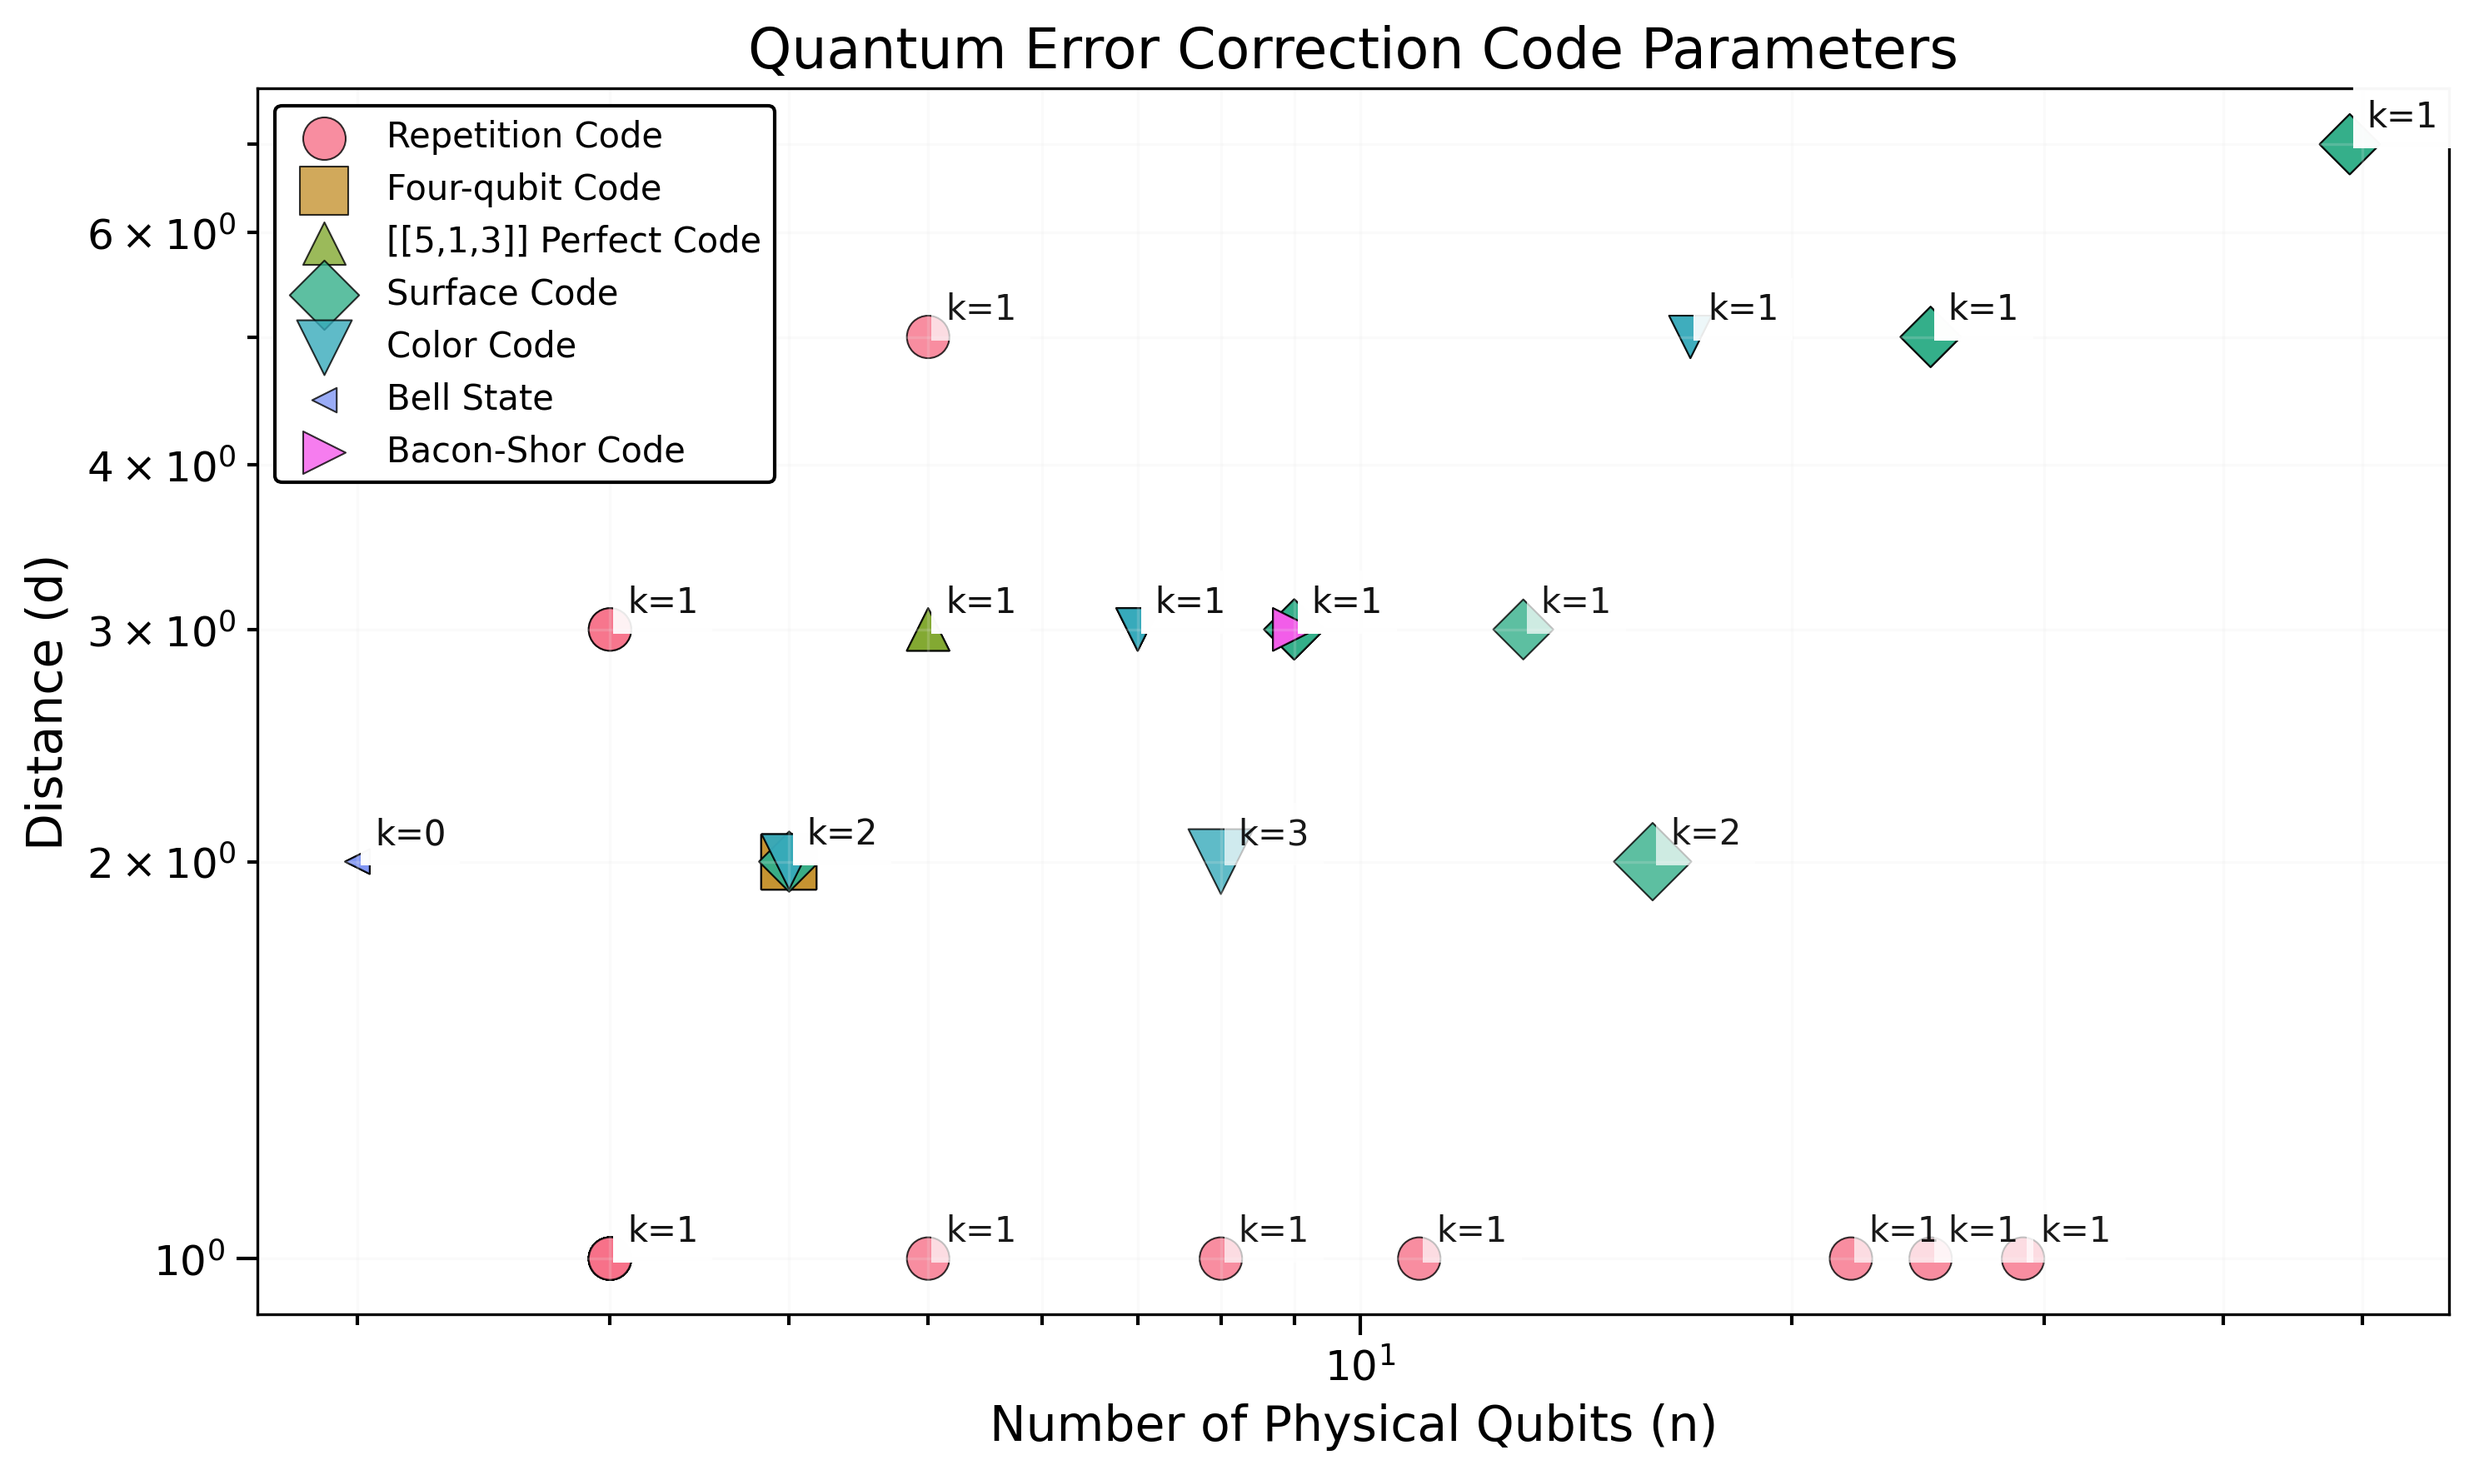
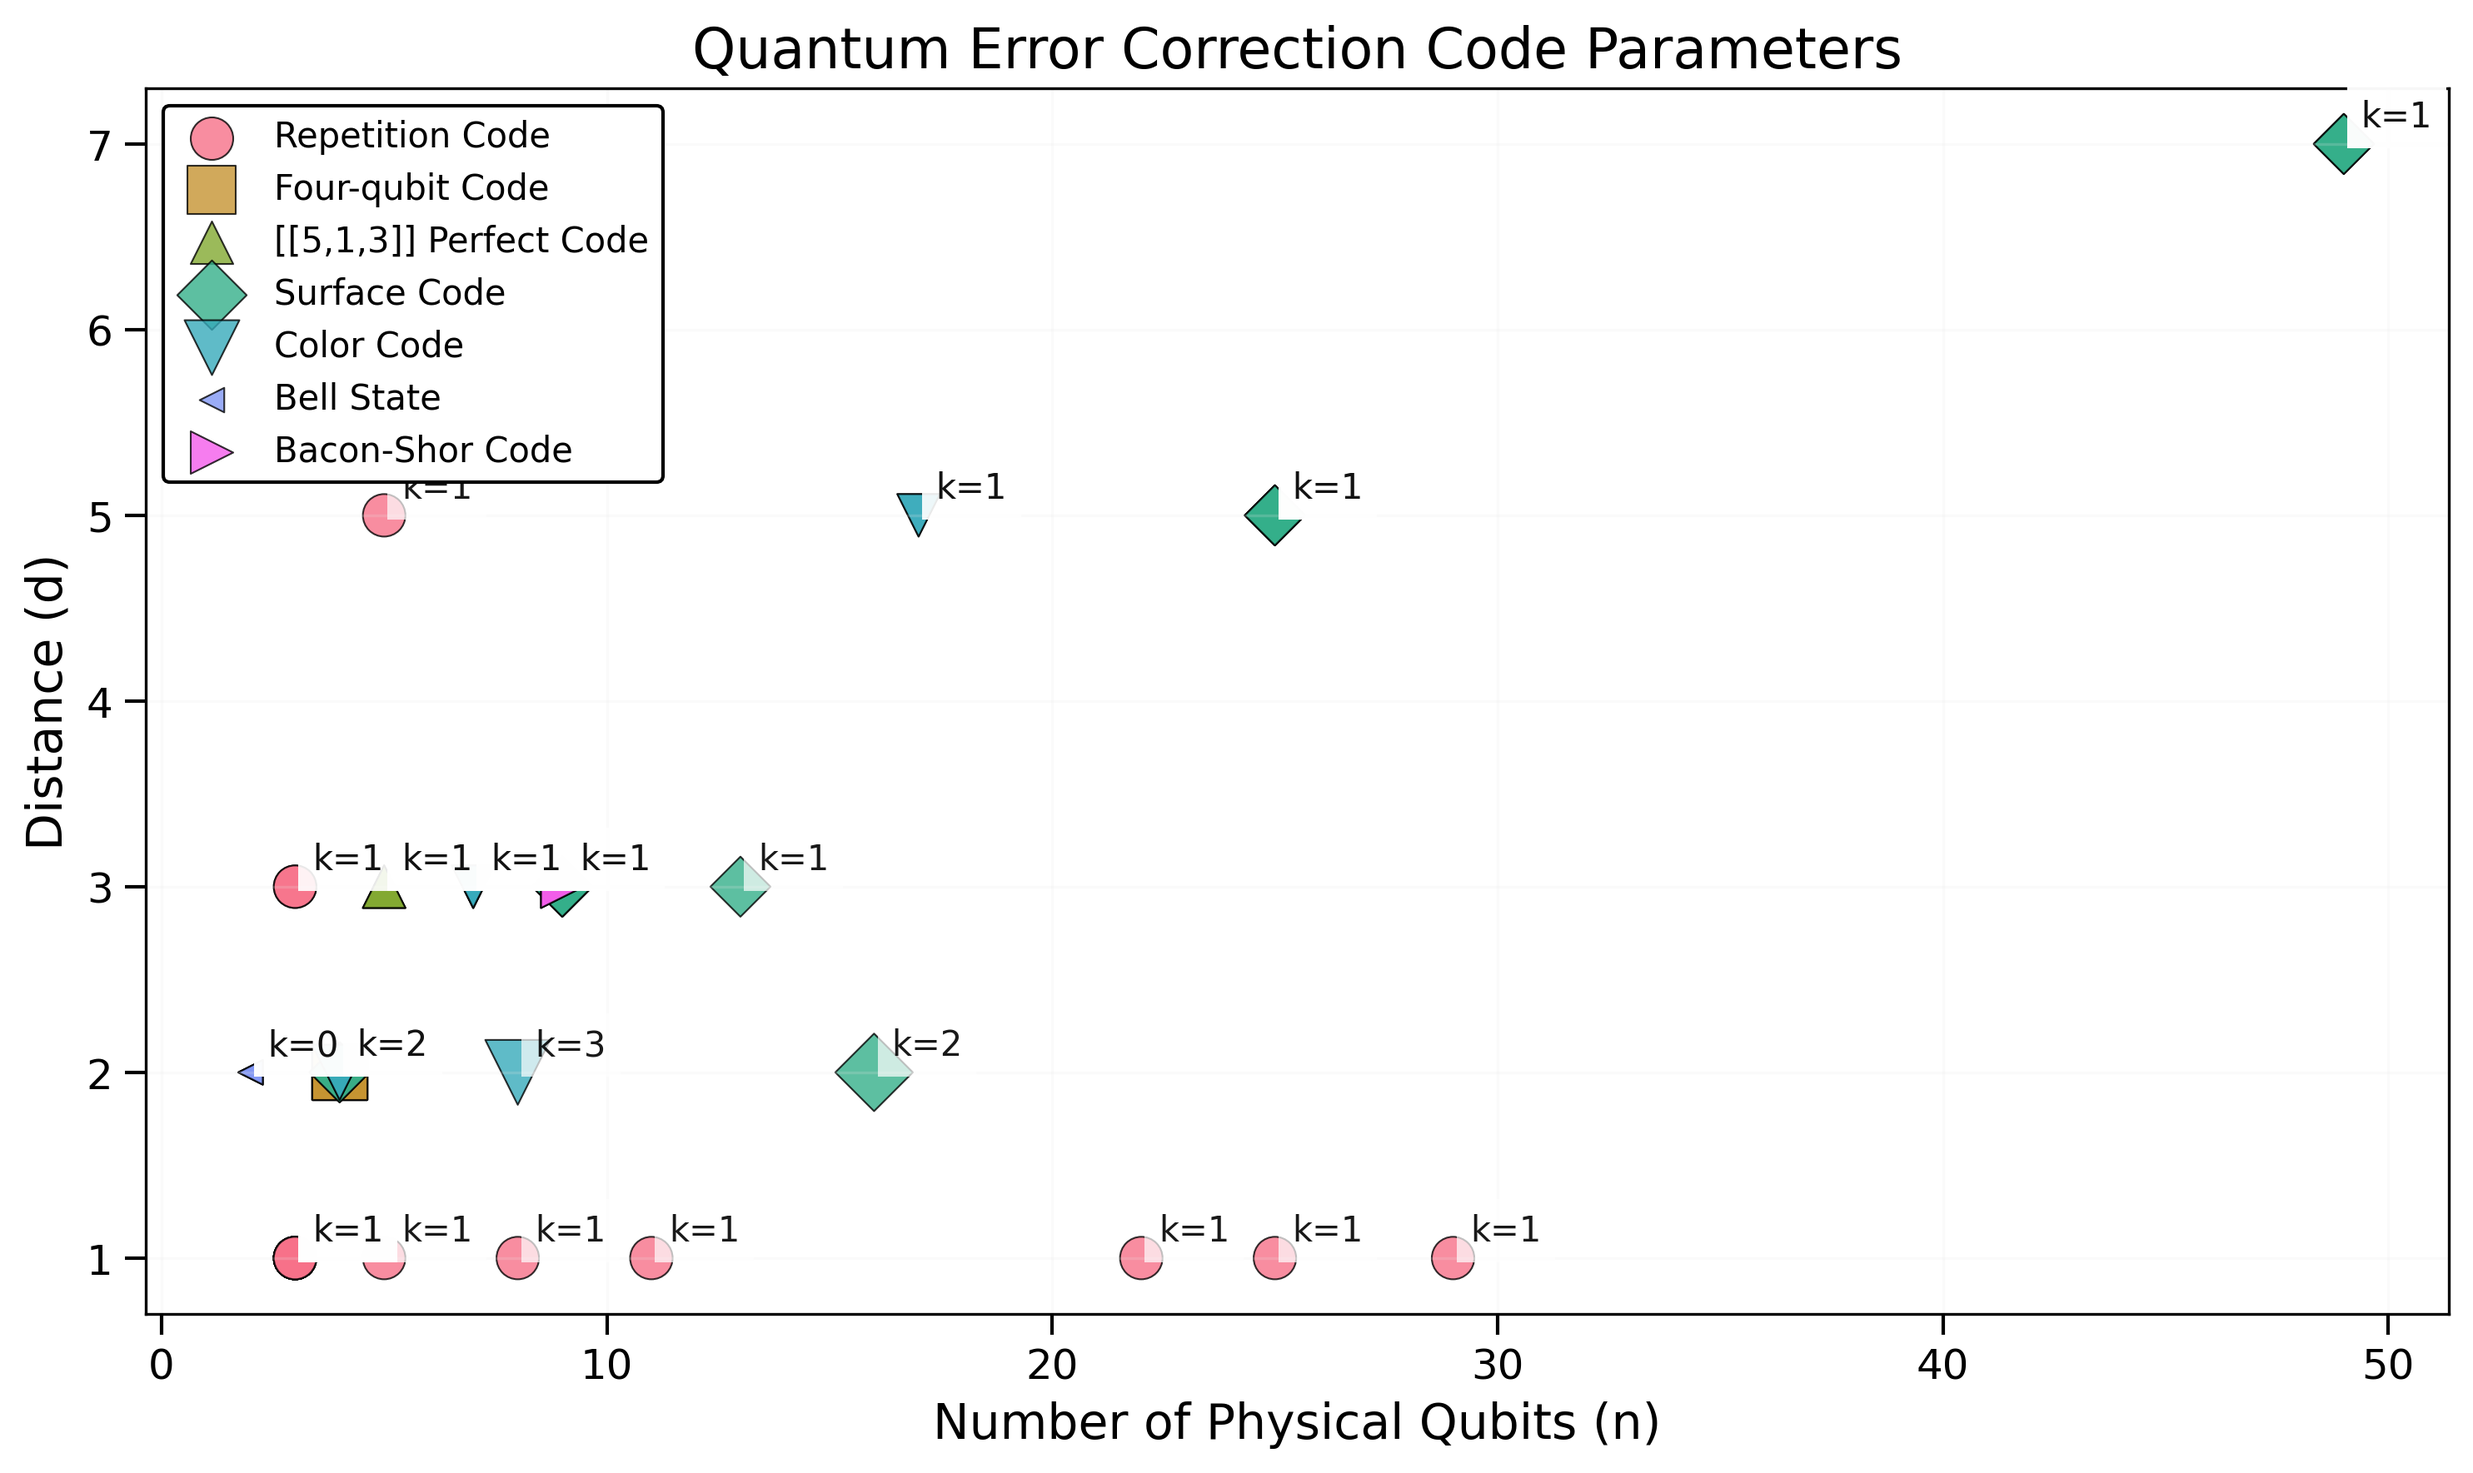
jekyll build from Action 891045477f0fcad0fba6164c81110274bf943a2a

diff --git a/src/plotting/nkd_plot.py b/src/plotting/nkd_plot.py
@@ -114,9 +114,6 @@ class NKDPlot(BasePlot):
             fontsize=self.plot_settings['fontsize']['legend']
         )
         
-        plt.xscale('log')
-        plt.yscale('log')
-        
         # Add grid with improved visibility
         plt.grid(True, which="both", ls="-", alpha=0.2)
         
